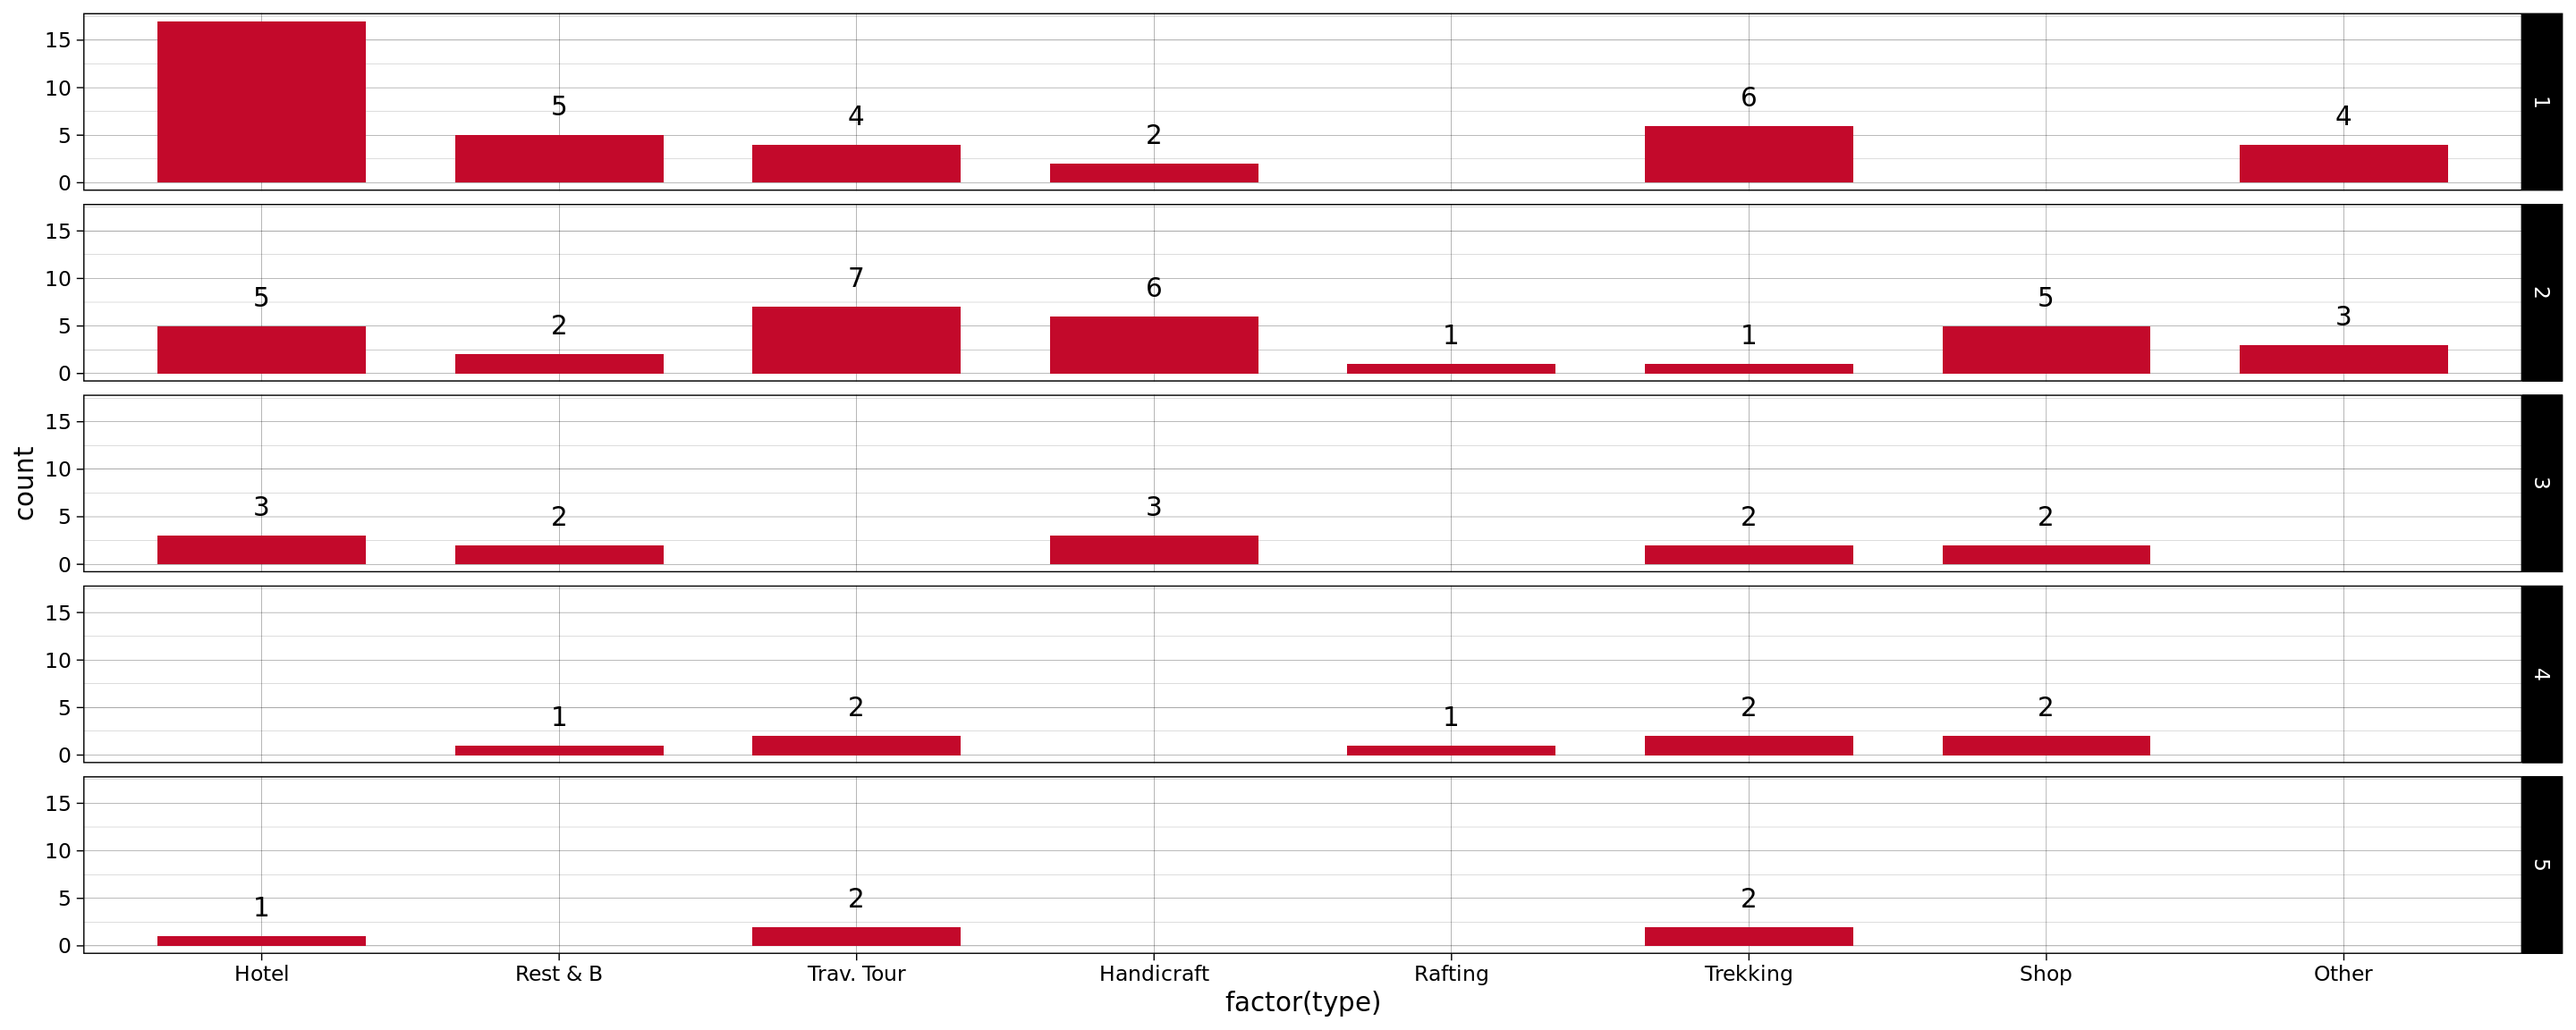
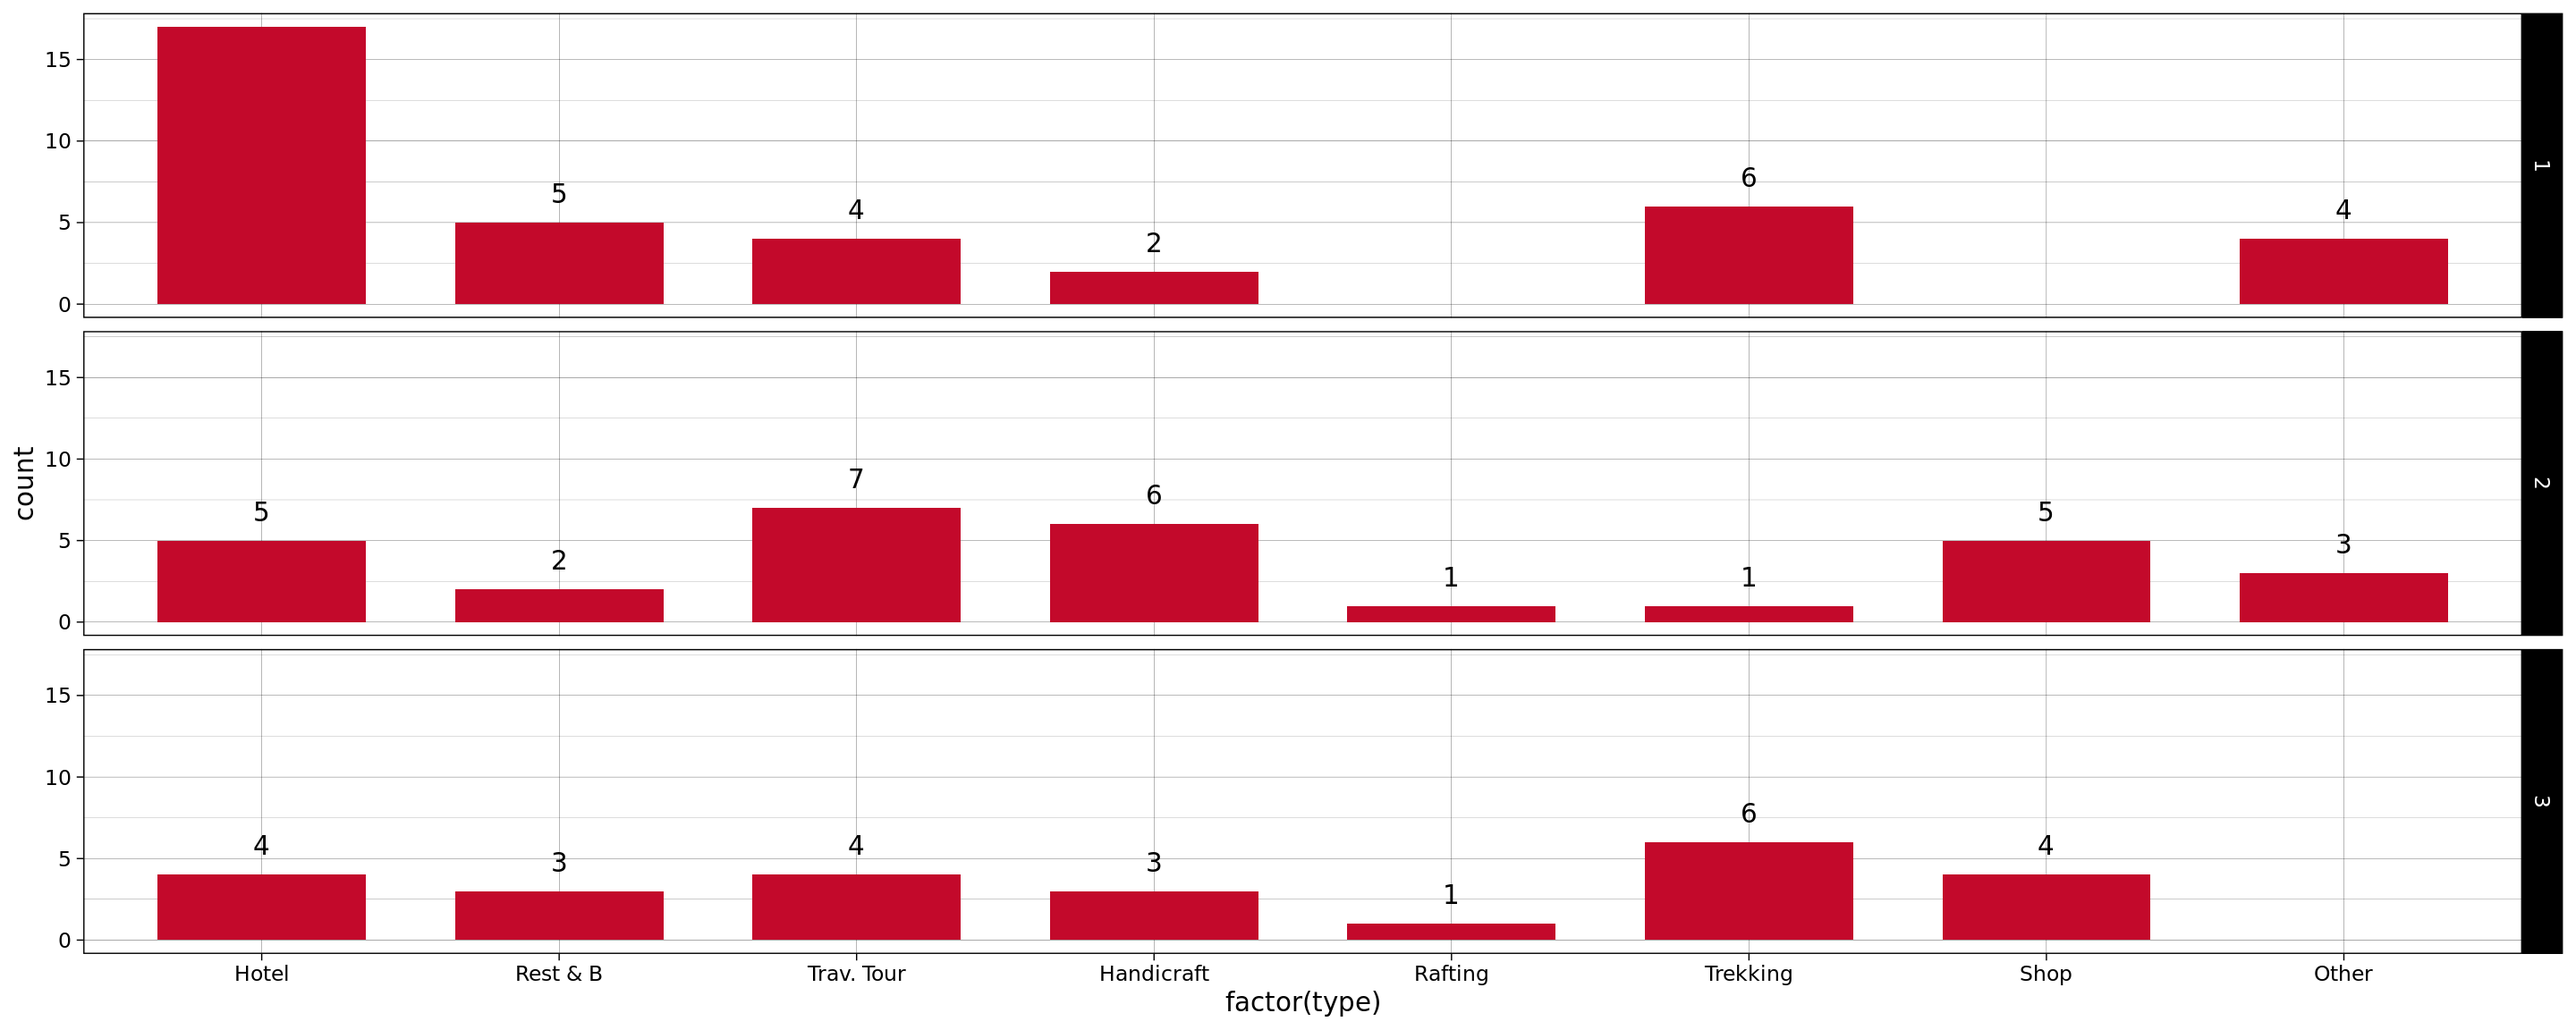
Incorporated changes to analysis based on Jungwhan and Mel's feedback

diff --git a/docs/analyses/2021-06-16-hhs-clustering.html b/docs/analyses/2021-06-16-hhs-clustering.html
@@ -372,6 +372,30 @@ knitr::kable(cluster_profiles)
   <li>The behaviour of businesses in <strong>Cluster 2</strong> is a bit unclear, while these businesses have sought to adopt more than one measure, it appears there is room to do more. Once again, reaching out to these businesses could provide an oppportunity for government and non-government stakeholders to learn about the different challenges and hurdles surrounding HHS measures adoption in tourism businesses.</li>
 </ol>
 
+<p>Given these observations, we can observe three distinctive patterns for health, hygiene and sanitation practices emerging from our data. There is a group of businesses that have made little to no effort in adopting HHS measures follwoing the pandemic (clusters 3, 4,5). Then there is a group of responsible bunisesses, where many have adopted more than one HHS measures in response to the pandemic. Finally there is the <em>in-between</em> group (cluster 2). Let’s go ahead and regroup our clusters based on this pattern.</p>
+
+<div class="language-plaintext highlighter-rouge"><div class="highlight"><pre class="highlight"><code>data$sub_grp &lt;- ifelse(data$sub_grp == 4, 3, ifelse(data$sub_grp==5, 3, data$sub_grp))
+cluster_profiles &lt;- data %&gt;% 
+  group_by(sub_grp) %&gt;%
+  summarise(
+    count = n(),
+    sntzrs=round(sum(as.numeric(as.character(sntzrs)))/n()*100, 2),
+    empl_trained=round(sum(as.numeric(as.character(empl_trained)))/n()*100, 2),
+    thrml_scrn=round(sum(as.numeric(as.character(thrml_scrn)))/n()*100, 2),
+    soc_dist=round(sum(as.numeric(as.character(soc_dist)))/n()*100, 2),
+    cshless=round(sum(as.numeric(as.character(cshless)))/n()*100, 2),
+    nobufft=round(sum(as.numeric(as.character(nobufft)))/n()*100, 2),
+    c19mrktg=round(sum(as.numeric(as.character(c19mrktg)))/n()*100, 2),
+    outsrc=round(sum(as.numeric(as.character(outsrc)))/n()*100, 2),
+    othr=round(sum(as.numeric(as.character(othr)))/n()*100, 2),
+    none=round(sum(as.numeric(as.character(none)))/n()*100, 2)
+)
+
+knitr::kable(cluster_profiles)
+</code></pre></div></div>
+
+<figure class="fullwidth"><img src="/kathmandu/assets/img/hhs_clustering/09.png" /><figcaption></figcaption></figure>
+
 <p>At the same time, we also want to look at the distribution of businesses by type at the cluster level, as this could help reveal potential red flags. For example, a hotel business – where there is a relatively higer probability of person-to-person contact - falling into clusters 3, 4 or 5 would be a more serious issue than a travel and tour operator falling into these clusters. So let’s go ahead a visualize this information as well.</p>
 
 <div class="language-plaintext highlighter-rouge"><div class="highlight"><pre class="highlight"><code>ggplot(
@@ -409,6 +433,37 @@ knitr::kable(cluster_profiles)
 
 <p>And indeed, 7 out of 25 businesses that fall in Clusers 3, 4 or 5 are hotels and restaurants. These businesses should be contacted immediately and provided with necessary assistance so that they can ensure better HHS measures for their customers.</p>
 
+<p>Similarly, let’s also look at the distribution of businesses by number of employees at the cluster level.</p>
+
+<div class="language-plaintext highlighter-rouge"><div class="highlight"><pre class="highlight"><code>ggplot(
+  data,
+  aes(x=factor(n_employees))
+  ) +
+  geom_bar(
+  stat="count",
+  width=0.7,
+  fill="#c3092b") +
+  geom_text(
+    stat='count', 
+    aes(label=..count..), 
+    vjust=-1
+  ) +  
+  facet_grid(sub_grp ~ .) +
+  scale_x_discrete(
+  breaks=1:5,
+  labels=c(
+    "Less than 10",
+    "11 to 30",
+    "31 to 50",
+    "51 to 100",
+    "More than 100"
+    )
+  ) +
+  theme_linedraw()
+</code></pre></div></div>
+
+<figure class="fullwidth"><img src="/kathmandu/assets/img/hhs_clustering/10.png" /><figcaption></figcaption></figure>
+
 <h4 id="spatially-visualizing-businesses-by-cluster-type">Spatially visualizing businesses by cluster type</h4>
 
 <p>Could HHS measure adoption be linked with where businesses are located? A map based visualization can help answer this question.</p>
@@ -423,7 +478,7 @@ data$lng &lt;- as.numeric(
 # coordinates, so lets exclude them
 onlyLatLng &lt;- data[!is.na(data$lat), ]
 onlyLatLng &lt;- data[!is.na(data$lng), ]
-colors &lt;- c("#1a9641ff", "#a6d96aff", "#ffffbfff", "#fdae61ff","#d7191cff")
+colors &lt;- c("#1b9e77ff", "#d95f02ff", "#7570b3ff")
 factpal &lt;- colorFactor(colors, onlyLatLng$sub_grp)
 leaflet(data = onlyLatLng, width = "75%") %&gt;%
   addProviderTiles(providers$CartoDB.Positron) %&gt;%
@@ -444,6 +499,18 @@ leaflet(data = onlyLatLng, width = "75%") %&gt;%
 </code></pre></div></div>
 
 <iframe width="100%" height="520" frameborder="0" src="https://arogyakoirala.carto.com/builder/95464c0b-b6d9-443a-9fa7-62c2f026e2b4/embed" allowfullscreen="" webkitallowfullscreen="" mozallowfullscreen="" oallowfullscreen="" msallowfullscreen=""></iframe>
+
+<p>Businesses outside the valley appear to be doing better w.r.t HHS measures adoption. Most of the businesses who responded from the cities of Pokhara and Chitwan fall under Clusters 1 or 2. At this point, we can’t say if this is because buinesses these cities adopted HHS practices later (after learning from Kathmandu), because the domain they operate in require stricter HHS practices (most are hotels and restaurants), or because adopting HHS practices was more feasible. Further analysis can help us understand this phenomenon better.</p>
+
+<p>Businesses in Thamel can learn from each other. There is a good mix of safe (cluster 1) and bare-minimum (cluster 3, 4) hotels in Thamel (zoom the map to the most densely populated region). This represent an opportunity for tourism stakeholders in Thamel to collaborate with safe businesses in training hotels with HHS measure adoption.</p>
+
+<h4 id="references">REFERENCES</h4>
+<ol>
+  <li>Hierarchical Clustering Analysis, <a href="https://uc-r.github.io/hc_clustering">https://uc-r.github.io/hc_clustering</a></li>
+  <li>User Similarity with Binary Data in Python, <a href="https://towardsdatascience.com/user-similarity-with-binary-data-in-python-d15940a702fc">https://towardsdatascience.com/user-similarity-with-binary-data-in-python-d15940a702fc</a></li>
+  <li>Lex et. al, UpSet: Visualization of Intersecting Sets, IEEE Transactions on Visualization and Computer Graphics, 2014 <a href="https://sci.utah.edu/~vdl/papers/2014_infovis_upset.pdf">https://sci.utah.edu/~vdl/papers/2014_infovis_upset.pdf</a></li>
+</ol>
+
 
 </div>
     <!-- </article> -->

diff --git a/_analyses/2021-06-16-hhs-clustering.md b/_analyses/2021-06-16-hhs-clustering.md
@@ -249,6 +249,31 @@ A few observations:
 2. Businesses falling to **Cluster 3** and **Cluster 4** don't seem to be far away from their *Cluster 5* counterparts, having done only the bare minimum needed for ensuring HHS safety, either through the use of hand sanitizers in business premises, or through employee traininbg on HHS best practices.
 4. The behaviour of businesses in **Cluster 2** is a bit unclear, while these businesses have sought to adopt more than one measure, it appears there is room to do more. Once again, reaching out to these businesses could provide an oppportunity for government and non-government stakeholders to learn about the different challenges and hurdles surrounding HHS measures adoption in tourism businesses.
 
+Given these observations, we can observe three distinctive patterns for health, hygiene and sanitation practices emerging from our data. There is a group of businesses that have made little to no effort in adopting HHS measures follwoing the pandemic (clusters 3, 4,5). Then there is a group of responsible bunisesses, where many have adopted more than one HHS measures in response to the pandemic. Finally there is the _in-between_ group (cluster 2). Let's go ahead and regroup our clusters based on this pattern.
+
+```
+data$sub_grp <- ifelse(data$sub_grp == 4, 3, ifelse(data$sub_grp==5, 3, data$sub_grp))
+cluster_profiles <- data %>% 
+  group_by(sub_grp) %>%
+  summarise(
+    count = n(),
+    sntzrs=round(sum(as.numeric(as.character(sntzrs)))/n()*100, 2),
+    empl_trained=round(sum(as.numeric(as.character(empl_trained)))/n()*100, 2),
+    thrml_scrn=round(sum(as.numeric(as.character(thrml_scrn)))/n()*100, 2),
+    soc_dist=round(sum(as.numeric(as.character(soc_dist)))/n()*100, 2),
+    cshless=round(sum(as.numeric(as.character(cshless)))/n()*100, 2),
+    nobufft=round(sum(as.numeric(as.character(nobufft)))/n()*100, 2),
+    c19mrktg=round(sum(as.numeric(as.character(c19mrktg)))/n()*100, 2),
+    outsrc=round(sum(as.numeric(as.character(outsrc)))/n()*100, 2),
+    othr=round(sum(as.numeric(as.character(othr)))/n()*100, 2),
+    none=round(sum(as.numeric(as.character(none)))/n()*100, 2)
+)
+
+knitr::kable(cluster_profiles)
+```
+
+{% fullwidth 'assets/img/hhs_clustering/09.png' '' %}
+
 
 At the same time, we also want to look at the distribution of businesses by type at the cluster level, as this could help reveal potential red flags. For example, a hotel business -- where there is a relatively higer probability of person-to-person contact - falling into clusters 3, 4 or 5 would be a more serious issue than a travel and tour operator falling into these clusters. So let's go ahead a visualize this information as well.
 
@@ -290,6 +315,38 @@ ggplot(
 And indeed, 7 out of 25 businesses that fall in Clusers 3, 4 or 5 are hotels and restaurants. These businesses should be contacted immediately and provided with necessary assistance so that they can ensure better HHS measures for their customers.
 
 
+Similarly, let’s also look at the distribution of businesses by number of employees at the cluster level.
+
+```
+ggplot(
+  data,
+  aes(x=factor(n_employees))
+  ) +
+  geom_bar(
+  stat="count",
+  width=0.7,
+  fill="#c3092b") +
+  geom_text(
+    stat='count', 
+    aes(label=..count..), 
+    vjust=-1
+  ) +  
+  facet_grid(sub_grp ~ .) +
+  scale_x_discrete(
+  breaks=1:5,
+  labels=c(
+    "Less than 10",
+    "11 to 30",
+    "31 to 50",
+    "51 to 100",
+    "More than 100"
+    )
+  ) +
+  theme_linedraw()
+```
+
+{% fullwidth 'assets/img/hhs_clustering/10.png' '' %}
+
 #### Spatially visualizing businesses by cluster type
 
 Could HHS measure adoption be linked with where businesses are located? A map based visualization can help answer this question. 
@@ -305,7 +362,7 @@ data$lng <- as.numeric(
 # coordinates, so lets exclude them
 onlyLatLng <- data[!is.na(data$lat), ]
 onlyLatLng <- data[!is.na(data$lng), ]
-colors <- c("#1a9641ff", "#a6d96aff", "#ffffbfff", "#fdae61ff","#d7191cff")
+colors <- c("#1b9e77ff", "#d95f02ff", "#7570b3ff")
 factpal <- colorFactor(colors, onlyLatLng$sub_grp)
 leaflet(data = onlyLatLng, width = "75%") %>%
   addProviderTiles(providers$CartoDB.Positron) %>%
@@ -326,3 +383,19 @@ leaflet(data = onlyLatLng, width = "75%") %>%
 ```
 
 <iframe width="100%" height="520" frameborder="0" src="https://arogyakoirala.carto.com/builder/95464c0b-b6d9-443a-9fa7-62c2f026e2b4/embed" allowfullscreen webkitallowfullscreen mozallowfullscreen oallowfullscreen msallowfullscreen></iframe>
+
+
+Businesses outside the valley appear to be doing better w.r.t HHS measures adoption. Most of the businesses who responded from the cities of Pokhara and Chitwan fall under Clusters 1 or 2. At this point, we can't say if this is because buinesses these cities adopted HHS practices later (after learning from Kathmandu), because the domain they operate in require stricter HHS practices (most are hotels and restaurants), or because adopting HHS practices was more feasible. Further analysis can help us understand this phenomenon better.
+
+Businesses in Thamel can learn from each other. There is a good mix of safe (cluster 1) and bare-minimum (cluster 3, 4) hotels in Thamel (zoom the map to the most densely populated region). This represent an opportunity for tourism stakeholders in Thamel to collaborate with safe businesses in training hotels with HHS measure adoption.   
+
+
+
+
+#### REFERENCES
+1. Hierarchical Clustering Analysis, [https://uc-r.github.io/hc_clustering](https://uc-r.github.io/hc_clustering)
+2. User Similarity with Binary Data in Python, [https://towardsdatascience.com/user-similarity-with-binary-data-in-python-d15940a702fc](https://towardsdatascience.com/user-similarity-with-binary-data-in-python-d15940a702fc)
+3. Lex et. al, UpSet: Visualization of Intersecting Sets, IEEE Transactions on Visualization and Computer Graphics, 2014 [https://sci.utah.edu/~vdl/papers/2014_infovis_upset.pdf](https://sci.utah.edu/~vdl/papers/2014_infovis_upset.pdf)
+
+
+
